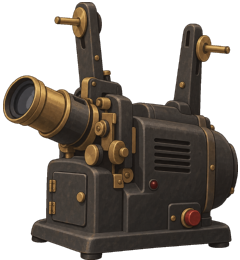
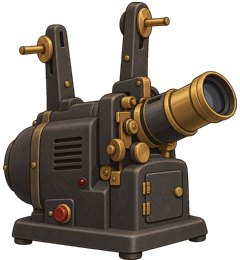
66: Re-drop the projector S09 facing the screen, and move its motor switch and gate door to where it draws them
projector.png is rebuilt from ticket 65's attempt-4 (owner option a) with ticket 36's pipeline:
build-prop.mjs --frame 240x260 --fit content --seat bottom --key alpha, shared scale 0.2008.
The machine is drawn mirrored against 65's brief, so the hit areas follow the landed PNG:
.projector-motor 452,693 36x28 (painted switch 467-474 x 703-711) and .projector-gate
512,685 19x25 (painted door 512-531 x 685-710). The beam's apex moves to the lens mouth at
549.5,648; its box and the screen end are unchanged. The two controls' 44 px pads overlapped
at narrow widths, where the gate swallowed the switch, so each pad now grows away from the
other. The reel and spindle boxes stay put for ticket 71.

diff --git a/index.html b/index.html
@@ -425,7 +425,7 @@
           <div class="cinema-prop cinema-film-can" data-breakable="cinema-film-can" data-breakable-state="intact" role="img" aria-label="一盒膠卷" data-i18n-aria="filmCanIntact" data-still="assets/cinema/film-can.png" style="--x:470;--y:692;--w:60;--h:38"></div>
           <div class="cinema-prop cinema-film-can-broken" data-breakable="cinema-film-can" data-breakable-state="broken" role="img" aria-label="被貓推下去的膠卷盒，底片散了一地" data-i18n-aria="filmCanBroken" data-still="assets/cinema/film-can-broken.png" style="--x:290;--y:800;--w:180;--h:80" hidden></div>
           <!-- P15-P17: one machine, two affordances. The motor switch is low on
-               the base plate and red; the film gate is the machine's mouth, high
+               the base plate and red, lower left since 66; the gate is the side door, lower right,
                and cream, and stays disabled until ticket 20 loads a reel. -->
           <!-- 36: S09 is the machine at rest, S11 its spindles turning over
                the spindle region while the motor or a Film runs, and S10 the
@@ -433,12 +433,12 @@
           <span class="cinema-prop cinema-projector" data-still="assets/cinema/projector.png" style="--x:440;--y:600;--w:120;--h:130" aria-hidden="true"></span>
           <span class="cinema-prop cinema-spindles" data-still="assets/cinema/spindles.png" style="--x:455;--y:600;--w:90;--h:60" aria-hidden="true"></span>
           <span class="cinema-prop cinema-reel" data-still="assets/cinema/reel.png" style="--x:475;--y:600;--w:60;--h:60" aria-hidden="true"></span>
-          <button class="cinema-prop projector-motor" type="button" data-music-source="cinema" aria-pressed="false" data-label-start="projectorMotorStart" data-label-stop="projectorMotorStop" style="--x:520;--y:700;--w:36;--h:28" hidden>
+          <button class="cinema-prop projector-motor" type="button" data-music-source="cinema" aria-pressed="false" data-label-start="projectorMotorStart" data-label-stop="projectorMotorStop" style="--x:452;--y:693;--w:36;--h:28" hidden>
             <span class="motor-cap" aria-hidden="true"></span>
             <span class="motor-plate" aria-hidden="true">♪</span>
             <span class="visually-hidden" data-music-source-label>馬達會轉，但還沒有聲音</span>
           </button>
-          <button class="cinema-prop projector-gate" type="button" data-projector-gate aria-disabled="true" style="--x:445;--y:600;--w:100;--h:100" aria-label="還沒有膠卷。先選一部片。"></button>
+          <button class="cinema-prop projector-gate" type="button" data-projector-gate aria-disabled="true" style="--x:512;--y:685;--w:19;--h:25" aria-label="還沒有膠卷。先選一部片。"></button>
           <!--
             20: what the projector throws, from `design/13-cinema-room.md`
             §6 and §10.

diff --git a/styles.css b/styles.css
@@ -538,8 +538,13 @@ html.dialog-open { overflow: hidden; }
 .motion-off .cinema-spindles { animation: none; }
 /* Both controls pad their hit area out to the 44 CSS px floor without moving
    the painted Prop, which is smaller than a fingertip at every shell width. */
-.projector-gate::before, .projector-motor::before { content: ""; position: absolute; left: 50%; top: 50%; translate: -50% -50%; width: max(100%, 44px); height: max(100%, 44px); }
-/* High on the machine, cream, and dim: the mouth a reel goes into. Ticket 20
+.projector-gate::before, .projector-motor::before { content: ""; position: absolute; left: 50%; top: 50%; translate: -50% -50%; width: max(100%, 44px); height: max(100%, 44px); }
+/* 66: S09 draws the switch and the gate door 52 units apart, which is under 44 px on any stage
+   narrower than 1354 px, so centred pads overlapped and the gate (832) swallowed the switch (640).
+   Each pad now grows away from the other, and the two meet at x 496, halfway between them. */
+.projector-motor::before { left: auto; right: calc(var(--u) * -8); translate: 0 -50%; }
+.projector-gate::before { left: calc(var(--u) * -16); translate: 0 -50%; }
+/* Over S09's side door, lower right since 66, cream, and dim: where a reel goes in. Ticket 20
    enables it, and until then it says so rather than pretending. */
 .stage-cinema button.projector-gate { z-index: 832; border-radius: calc(var(--u) * 6); border: calc(var(--u) * 4) dashed #efe6d680; background: #efe6d611; cursor: not-allowed; }
 .projector-gate:focus-visible { outline: 3px solid var(--cream); outline-offset: 2px; }
@@ -627,7 +632,7 @@ html.dialog-open { overflow: hidden; }
    percentages are the note's aperture at stage (450, 660) and the lower
    corners of the sheet as measured off S01, (727, 464) and (1293, 464), read
    inside this Prop's own box (445, 148, 848 x 517). */
-.stage-cinema .cinema-beam { z-index: 901; pointer-events: none; clip-path: polygon(.6% 99%, 33.25% 61.1%, 100% 61.1%); background: linear-gradient(to top, #ffe6b03d, #ffe6b00f); }
+.stage-cinema .cinema-beam { z-index: 901; pointer-events: none; clip-path: polygon(12.32% 96.71%, 33.25% 61.1%, 100% 61.1%); background: linear-gradient(to top, #ffe6b03d, #ffe6b00f); }
 
 /* §10: the screen sheet, once there is something on it. */
 .stage-cinema .cinema-film { z-index: 905; overflow: hidden; background: #0b070f; box-shadow: 0 0 calc(var(--u) * 90) calc(var(--u) * 20) #ffe6b02e; }
